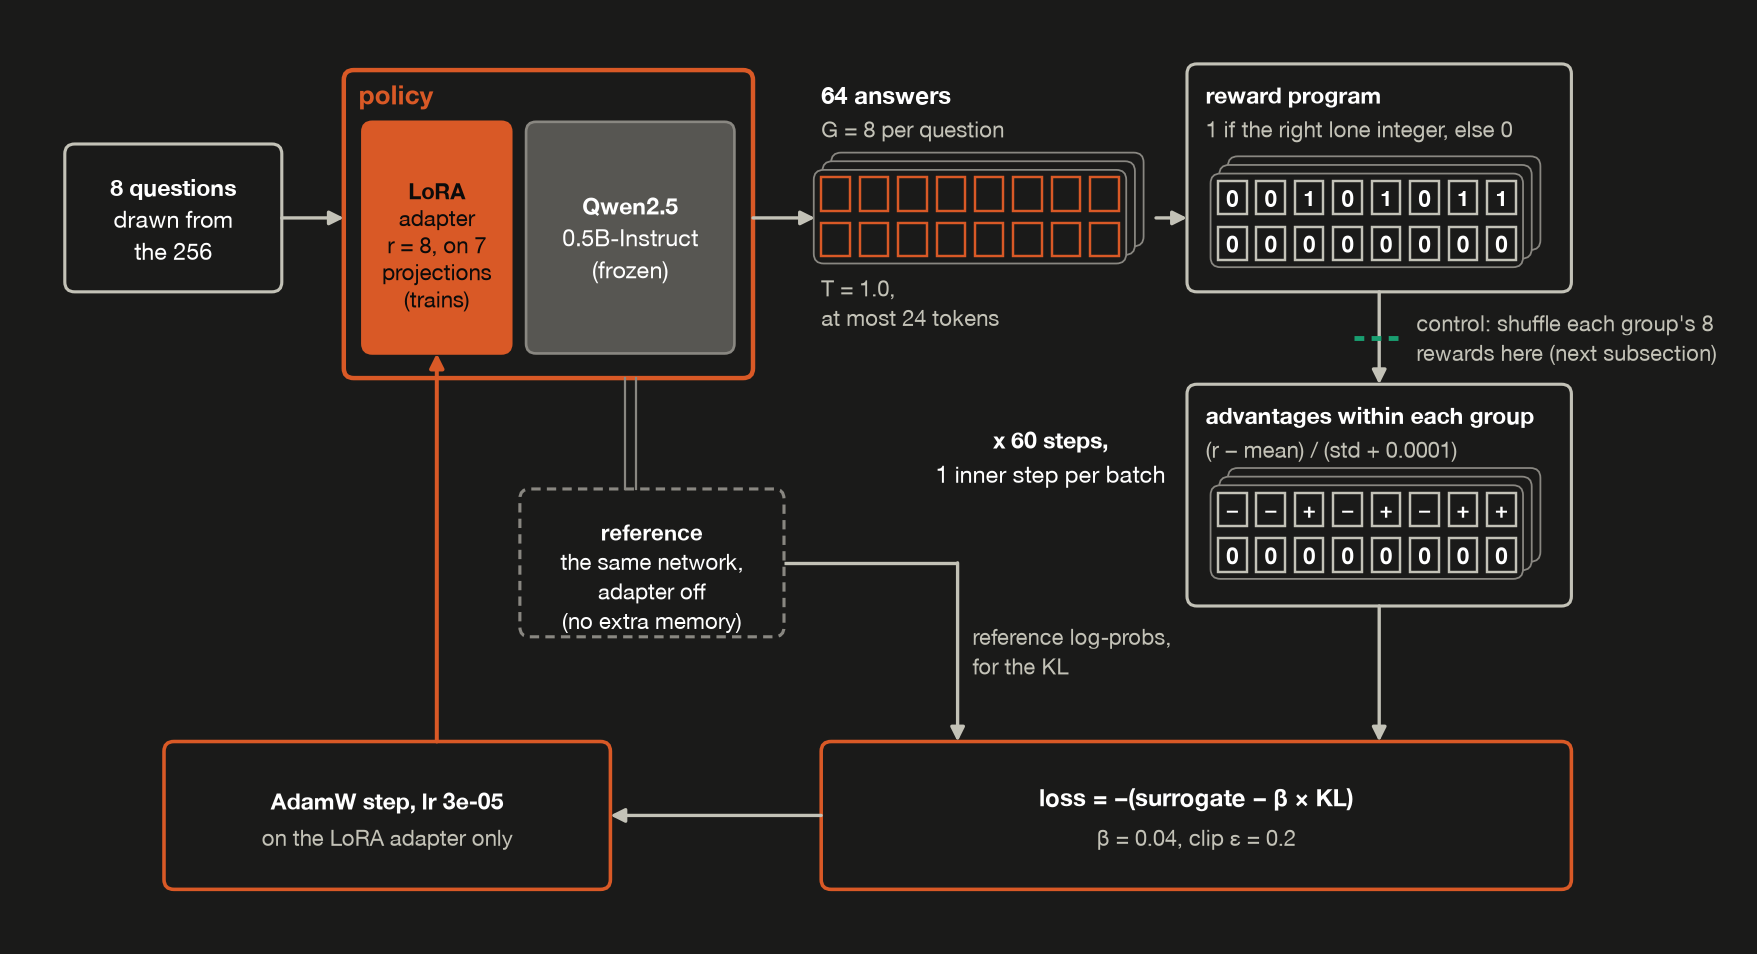
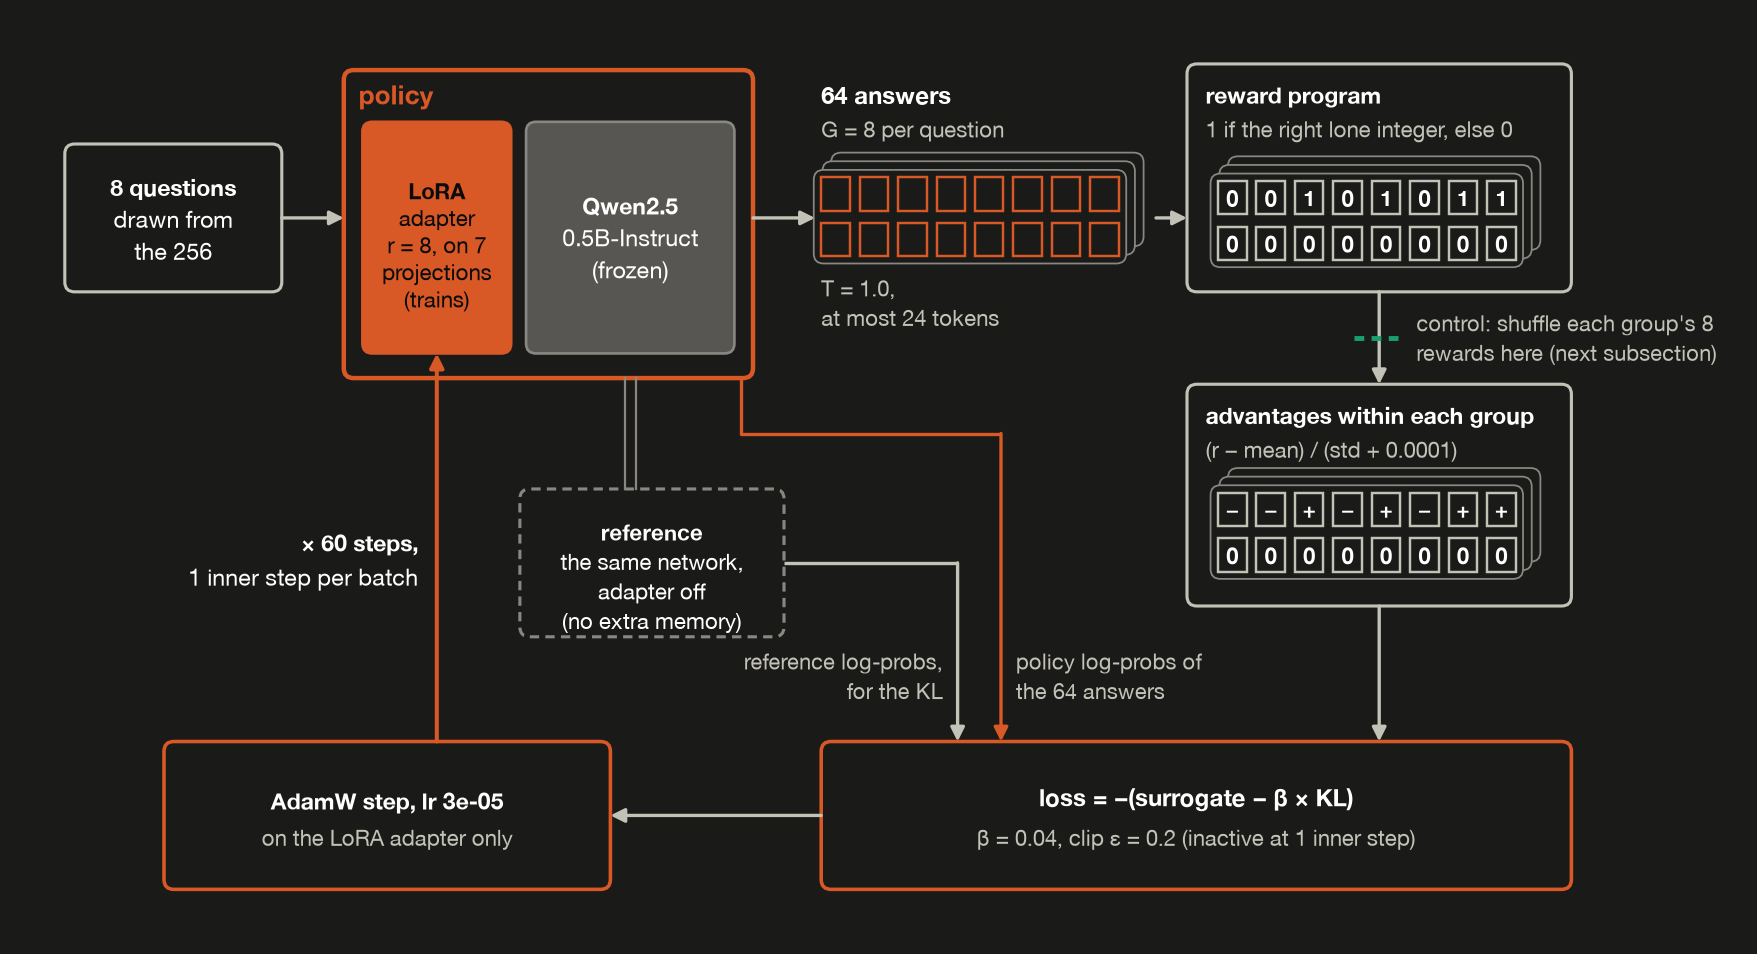
Post 8: GRPO-step figure redrawn (round 4, fbe3d0e40): the policy's log-probs of the 64 answers now flow into the loss, the clip is marked inactive at 1 inner step, the loop label sits on the return arrow; alt text to match. 20/20 receipts byte-exact.

diff --git a/_posts/2026-12-05-llm-architectures-learning-from-rewards.md b/_posts/2026-12-05-llm-architectures-learning-from-rewards.md
@@ -578,8 +578,8 @@ Training repeats §5 many times, on fresh answers each step. The settings, from 
 
 Each step samples eight training questions, eight answers to each, scores them, computes advantages within each group, and takes one gradient step with **AdamW**, the optimizer posts 6 and 7 used, on the LoRA adapters. LoRA is post 6's: rank 8, on all seven projection matrices of every layer. Sixty steps draw 480 questions from a pool of 256, which the receipt's `draws per question` line puts at 1.875 per question on average. Each step draws its eight afresh, so some questions come up more often than others, and some may not come up at all.
 
-![A loop diagram of one training step. Eight questions drawn from the 256 go to the policy, a frozen Qwen2.5-0.5B-Instruct with a trainable LoRA adapter (r = 8, on 7 projections), which samples G = 8 answers per question, 64 in all, at T = 1.0 and at most 24 tokens. A reward program scores each answer 1 if it's the right lone integer and 0 otherwise; one example group scores 0, 0, 1, 0, 1, 0, 1, 1 and another all 0. Advantages are computed within each group as (r - mean) / (std + 0.0001), giving minus and plus signs for the first group and zeros for the second. The loss, -(surrogate - β × KL) with β = 0.04 and clip ε = 0.2, also takes log-probs from the reference, the same network with the adapter off, which costs no extra memory. An AdamW step at lr 3e-05 updates the LoRA adapter only, and the loop runs 60 times, one inner step per batch. A green dashed mark between the reward program and the advantages shows where the control shuffles each group's 8 rewards](/assets/picture/2026-12-05-llm-architectures-learning-from-rewards/grpo-step-light.png){: .light width="1000" height="543" }
-![A loop diagram of one training step. Eight questions drawn from the 256 go to the policy, a frozen Qwen2.5-0.5B-Instruct with a trainable LoRA adapter (r = 8, on 7 projections), which samples G = 8 answers per question, 64 in all, at T = 1.0 and at most 24 tokens. A reward program scores each answer 1 if it's the right lone integer and 0 otherwise; one example group scores 0, 0, 1, 0, 1, 0, 1, 1 and another all 0. Advantages are computed within each group as (r - mean) / (std + 0.0001), giving minus and plus signs for the first group and zeros for the second. The loss, -(surrogate - β × KL) with β = 0.04 and clip ε = 0.2, also takes log-probs from the reference, the same network with the adapter off, which costs no extra memory. An AdamW step at lr 3e-05 updates the LoRA adapter only, and the loop runs 60 times, one inner step per batch. A green dashed mark between the reward program and the advantages shows where the control shuffles each group's 8 rewards](/assets/picture/2026-12-05-llm-architectures-learning-from-rewards/grpo-step-dark.png){: .dark width="1000" height="543" }
+![A loop diagram of one training step. Eight questions drawn from the 256 go to the policy, a frozen Qwen2.5-0.5B-Instruct with a trainable LoRA adapter (r = 8, on 7 projections), which samples G = 8 answers per question, 64 in all, at T = 1.0 and at most 24 tokens. A reward program scores each answer 1 if it's the right lone integer and 0 otherwise; one example group scores 0, 0, 1, 0, 1, 0, 1, 1 and another all 0. Advantages are computed within each group as (r - mean) / (std + 0.0001), giving minus and plus signs for the first group and zeros for the second. The loss, -(surrogate - β × KL) with β = 0.04 and clip ε = 0.2 (the clip inactive at one inner step), takes the policy's own log-probs of the 64 answers and also takes log-probs from the reference, the same network with the adapter off, which costs no extra memory. An AdamW step at lr 3e-05 updates the LoRA adapter only, and the loop, one inner step per batch, runs 60 times. A green dashed mark between the reward program and the advantages shows where the control shuffles each group's 8 rewards](/assets/picture/2026-12-05-llm-architectures-learning-from-rewards/grpo-step-light.png){: .light width="1000" height="543" }
+![A loop diagram of one training step. Eight questions drawn from the 256 go to the policy, a frozen Qwen2.5-0.5B-Instruct with a trainable LoRA adapter (r = 8, on 7 projections), which samples G = 8 answers per question, 64 in all, at T = 1.0 and at most 24 tokens. A reward program scores each answer 1 if it's the right lone integer and 0 otherwise; one example group scores 0, 0, 1, 0, 1, 0, 1, 1 and another all 0. Advantages are computed within each group as (r - mean) / (std + 0.0001), giving minus and plus signs for the first group and zeros for the second. The loss, -(surrogate - β × KL) with β = 0.04 and clip ε = 0.2 (the clip inactive at one inner step), takes the policy's own log-probs of the 64 answers and also takes log-probs from the reference, the same network with the adapter off, which costs no extra memory. An AdamW step at lr 3e-05 updates the LoRA adapter only, and the loop, one inner step per batch, runs 60 times. A green dashed mark between the reward program and the advantages shows where the control shuffles each group's 8 rewards](/assets/picture/2026-12-05-llm-architectures-learning-from-rewards/grpo-step-dark.png){: .dark width="1000" height="543" }
 _One GRPO training step, run 60 times. Only the LoRA adapter trains, and the reference for the KL penalty is the same network with the adapter switched off._
 
 With one inner step per batch the clip never binds, as [§5](#one-update) showed, but the KL term still acts. The reference stays fixed while the policy moves, and the KL-to-ref column below shows how far it gets.
